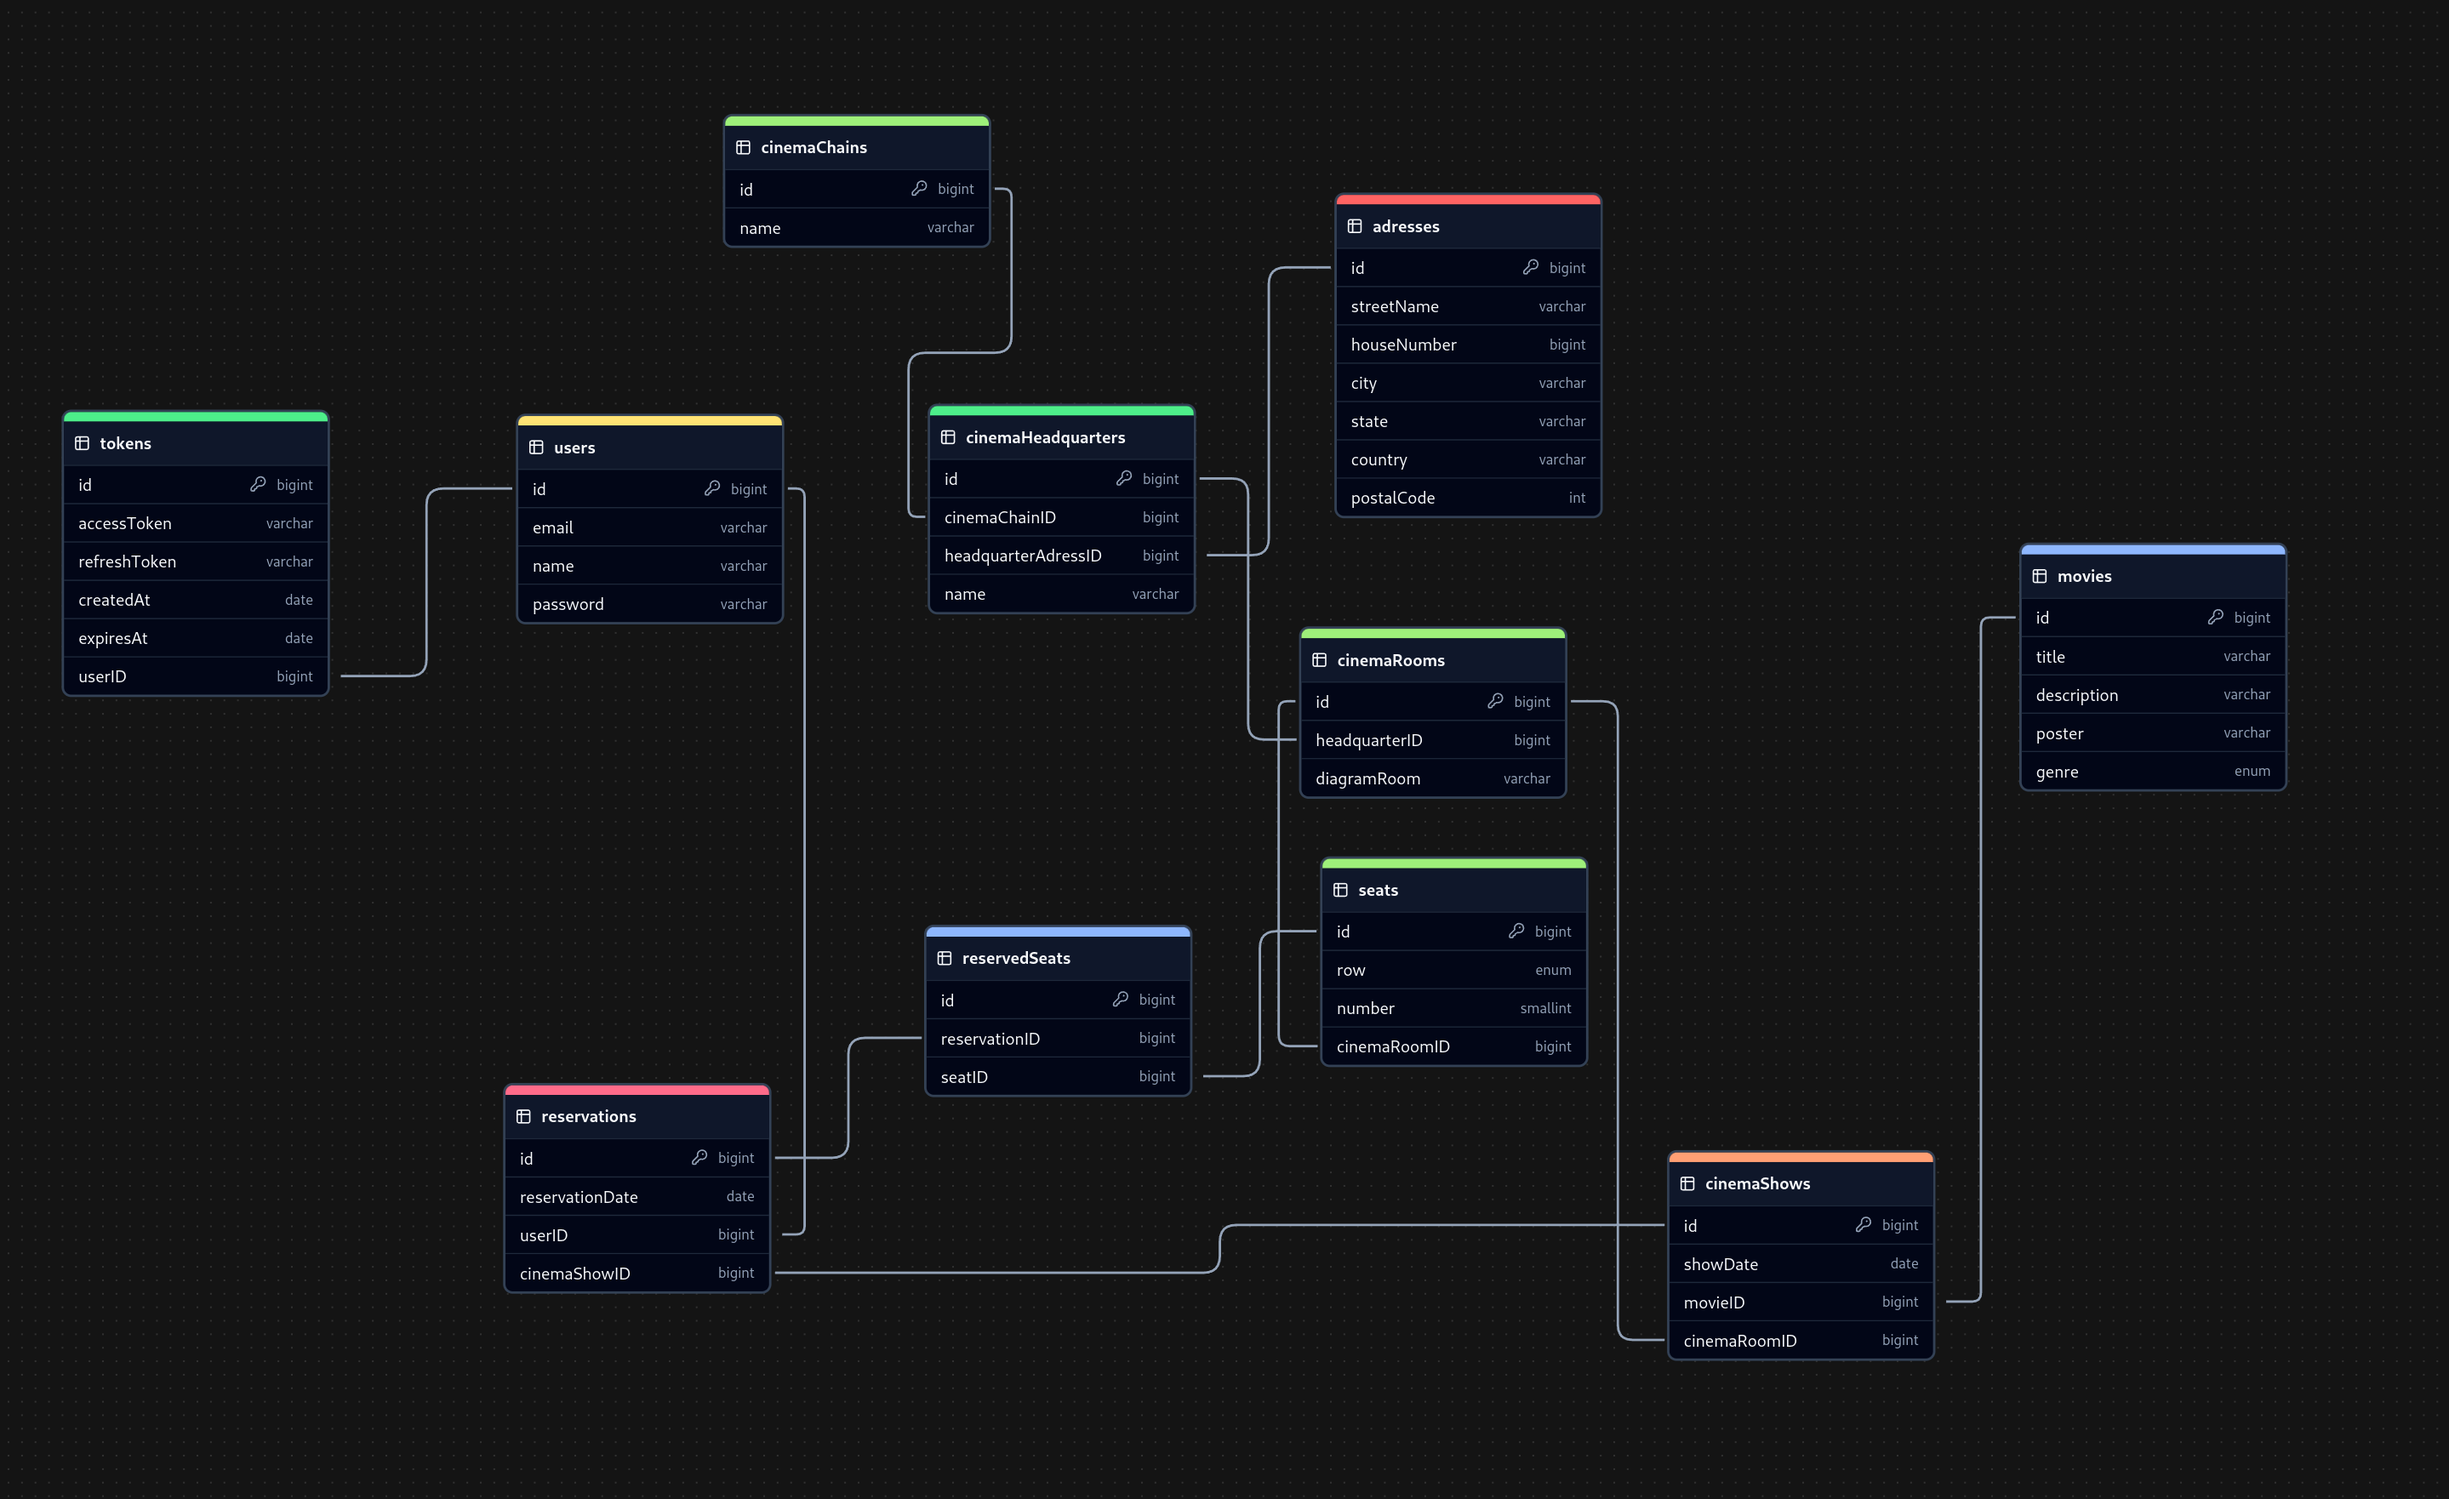
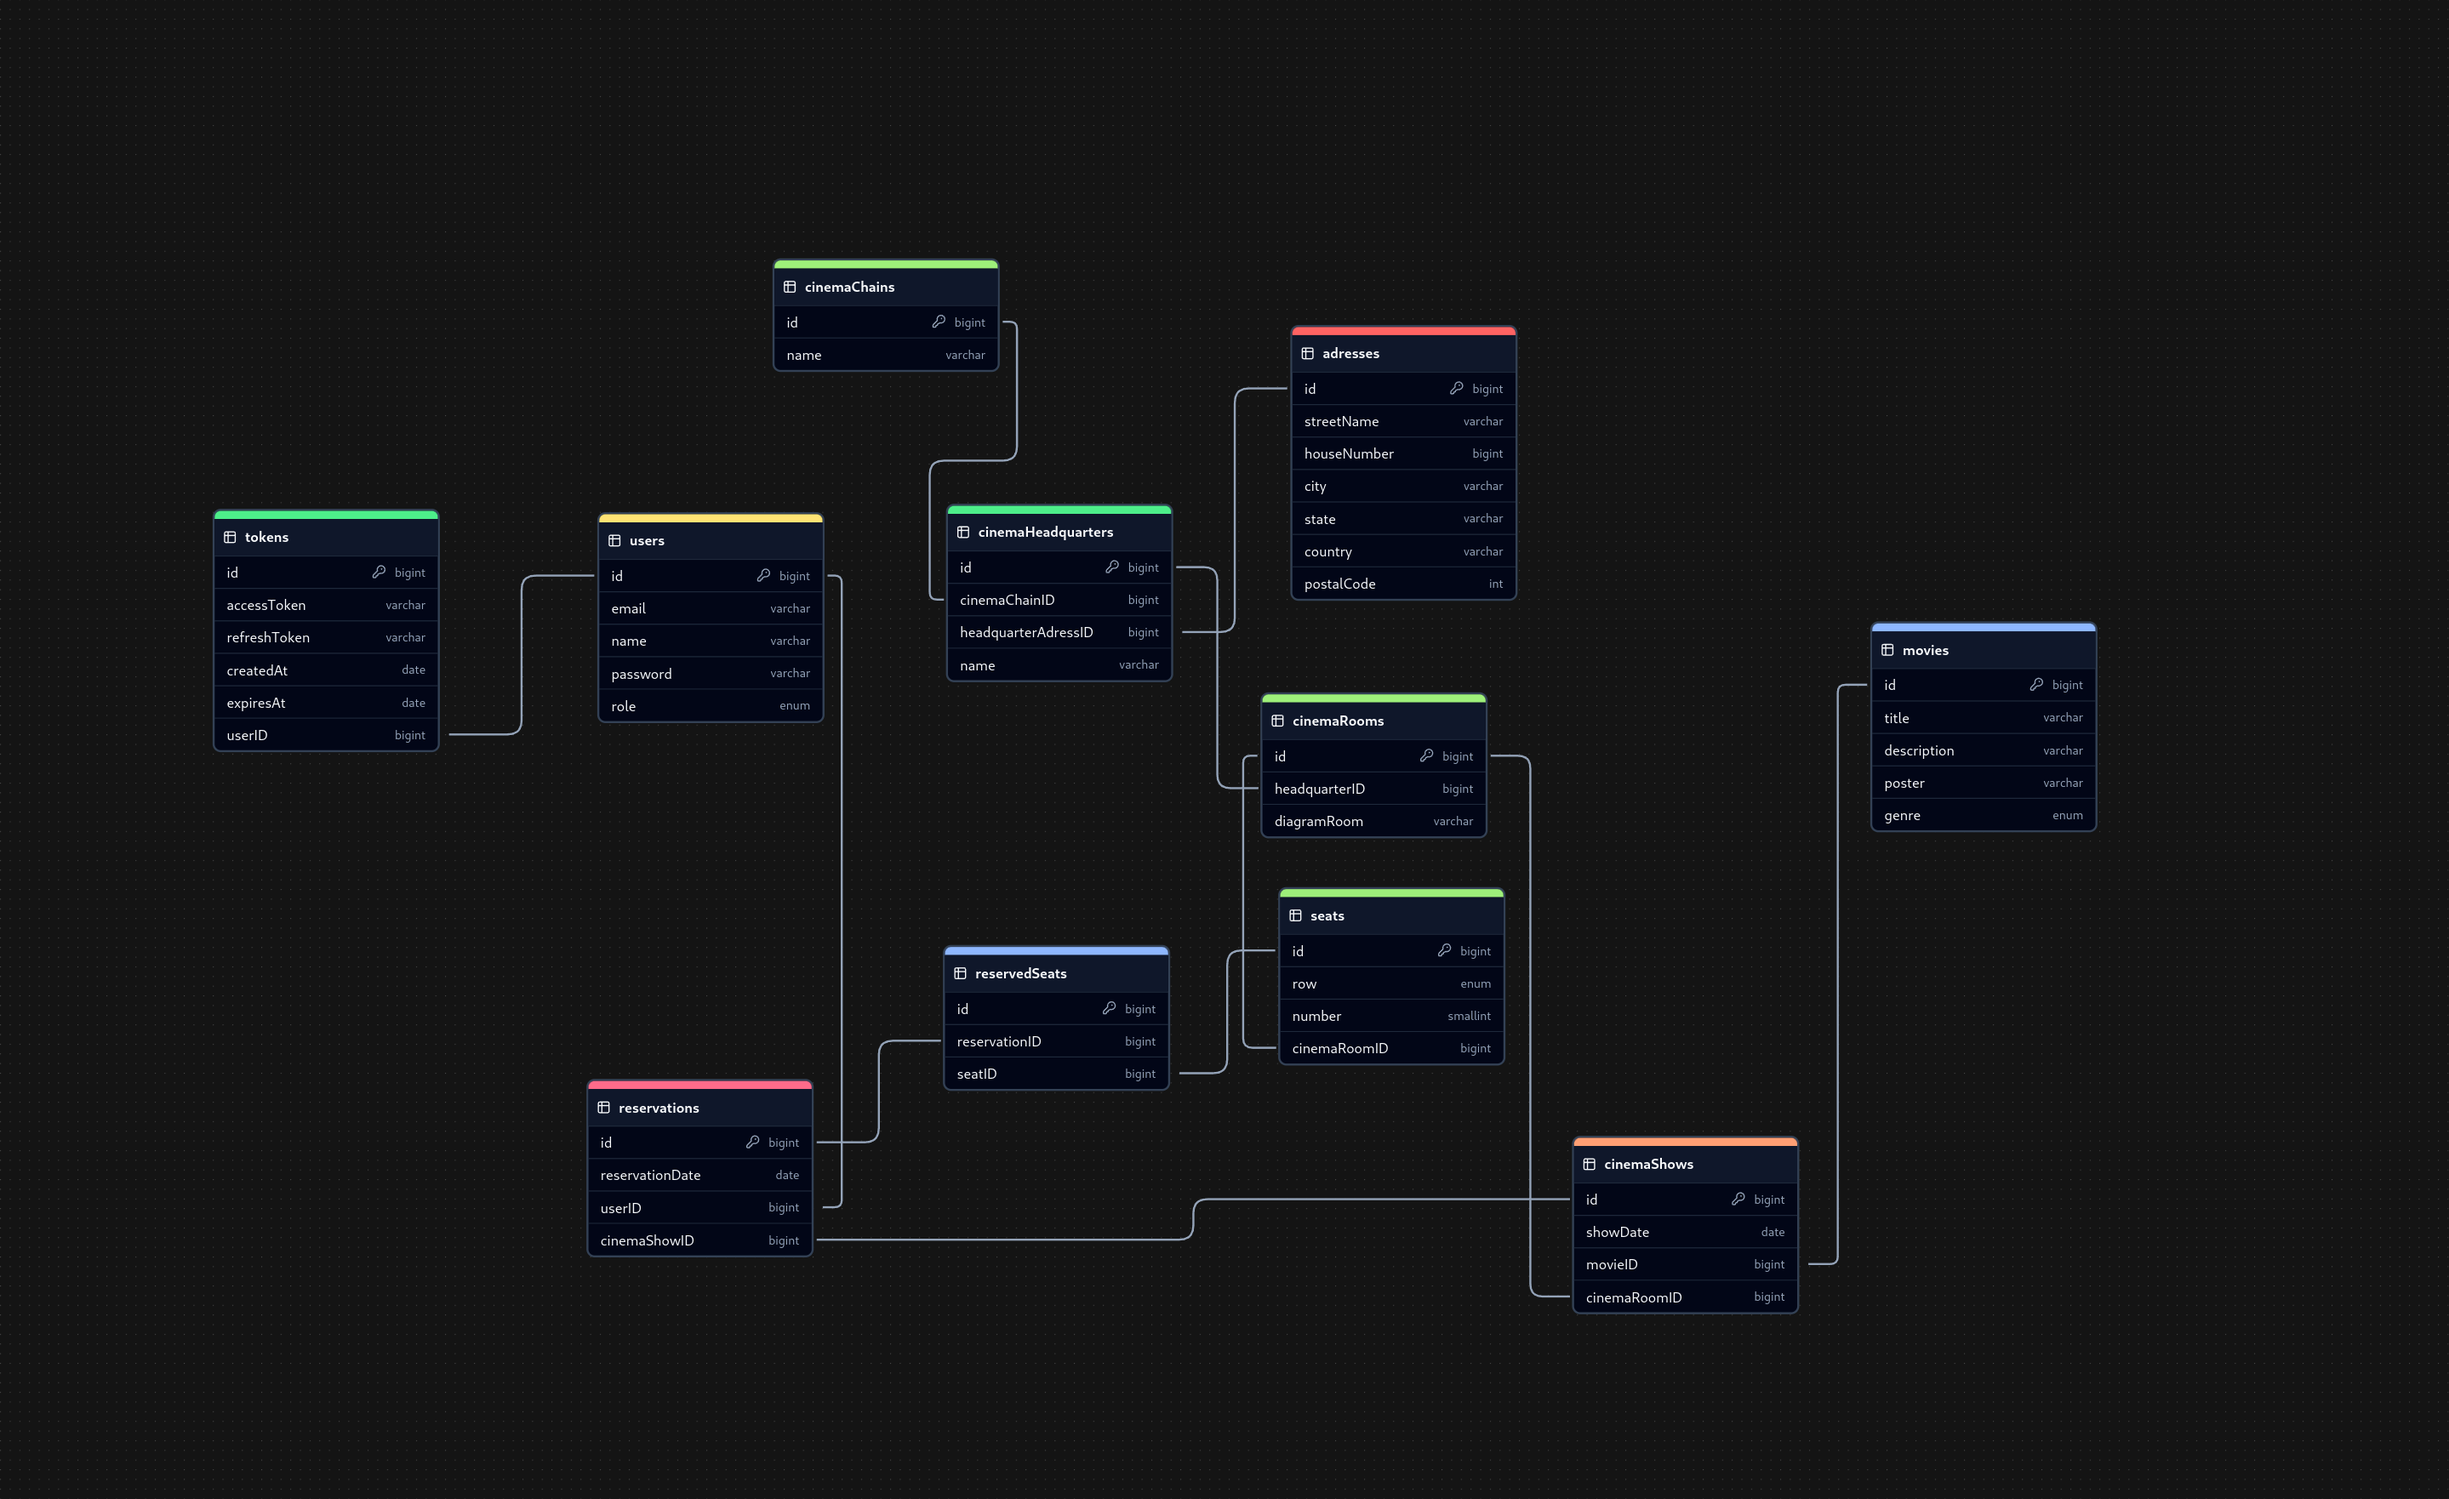
adding service functions

diff --git a/backend/service/user/user.go b/backend/service/user/user.go
@@ -1,0 +1,97 @@
+package service
+
+import (
+	"movie-reservation-system/repository"
+	"movie-reservation-system/models"
+	"strings"
+	"errors"
+)
+
+
+
+type UserServiceImpl struct {
+	userRepository repository.User
+}
+
+func NewUserServiceImpl(userRepository repository.User) UserService {
+	return &UserServiceImpl{userRepository: userRepository}
+}
+
+func (us *UserServiceImpl) CreateUser(req *models.UserRequest) (*models.UserDB, error) {
+	// Validate fields of request
+	TrimStructFields(req)
+	if req.Email == ''{
+		return nil, errors.ErrorUserMustHaveEmail{}.Error()
+	} else if req.Name == '' {
+		return nil, errors.ErrorUserMustHaveName{}.Error()
+	} else if len(req.Password) < 8 {
+		return nil, errors.ErrorPasswordMustHaveLenght8{}.Error()
+	} else if !Contains(models.GetRoles(), req.Role) {
+		return nil, errors.ErrorUserRoleInvalid{req.Role}.Error() 
+	}
+
+	// Call to the db to validate that the user doesnt already exist
+
+	// Save user in the db
+}
+
+func (us *UserServiceImpl) GetUser(email string) (*models.UserDB, error) {
+	// Get user from the db
+}
+
+func (us *UserServiceImpl) UpdateUser(req *models.UserUpdateRequest) (*models.UserDB, error) {
+	// Get user from the db
+	user, err := us.GetUser(email) // Should read the email from the endpoint path
+
+	if err != nil {
+		return nil, errors.ErrorUserNotExist{email}.Error()
+	}
+
+	// Updating fields
+	if req.Email != nil {
+		user.Email = req.Email
+	} else if req.Name != nil {
+		user.Name = req.Name
+	} else if req.Role != nil {
+		user.Role = req.Role
+	}
+
+	// Save updated user in the db
+}	
+
+func (us *UserServiceImpl) UpdatePassword(req *models.UserUpdatePasswordRequest) (*models.UserDB, error) {
+	// Get user from the db
+	user, err := us.GetUser(email) // Should read the email from the endpoint path
+
+	if err != nil {
+		return nil, errors.ErrorUserNotExist{email}.Error()
+	}
+
+	// Validate password fields
+	if !ValidatePassword(user.Password, req.OldPassword) {
+		return nil, errors.ErrorWrongOldPassword{}.Error()
+	}
+
+	if len(req.NewPassword) < 8 {
+		return nil, errors.ErrorPasswordMustHaveLenght8{}.Error()
+	}
+
+	// Update password
+	user.Password = req.NewPassword
+
+	// Save updated user in the db
+}
+
+func (us *UserServiceImpl) DeleteUser(email string) (*models.UserDB, error) {
+	// Get user from the db
+	user, err := us.GetUser(email) // Should read the email from the endpoint path
+
+	if err != nil {
+		return nil, errors.ErrorUserNotExist{email}.Error()
+	}
+
+	// Delete user from the db
+}
+	
+
+

diff --git a/backend/models/user.go b/backend/models/user.go
@@ -5,14 +5,40 @@ import (
 	"gorm.io/gorm"
 )
 
-type User struct {
-	Email    string `gorm:"type:varchar(100);not null"`
-	Name     string `gorm:"type:varchar(100);not null"`
-	Password string `gorm:"type:varchar(100);not null"`
+type Role string
+
+const (
+	User Role = "user"
+	Admin Role = "admin"
+)
+
+func GetRoles() ([]string) {
+	return []string{"user", "admin"}
+}
+
+type UserRequest struct {
+	Email    string `json:"email" binding:"required,email"`
+	Name     string `json:"name" binding:"required""`
+	Password string `json:"password" binding:"required,min=8"`
+	Role     Role   `json:"role" binding:"omitempty,oneof=user admin"`
+}
+
+type UserUpdateRequest struct {
+	Email	*string	`json:"email" binding:"omitempty,email"`
+	Name	*string	`json:"name" binding:"omitempty"`
+	Password	*string	`json:"password" binding:"omitempty,min=8"`
+	Role     *Role   `json:"role" binding:"omitempty,oneof=user admin"`
+}
+
+type UserUpdatePasswordRequest struct {
+	OldPassword string `json:"oldpassword" binding:"required,min=8"`
+	NewPassword string `json:"newpassword" binding:"required,min=8"`
 }
 
 type UserDB struct {
-	ID   uuid.UUID `gorm:"type:uuid;primaryKey"`
-	User User      `gorm:"embedded"`
+	Email    string `gorm:"type:varchar(100);primaryKey"`
+	Name     string `gorm:"type:varchar(100);not null"`
+	Password string `gorm:"type:varchar(100);not null" validate:"required,min=8"`
+	Role	Role	`gorm:"type:varchar(30);default:user`
 	gorm.Model
 }

diff --git a/backend/service/errors/user.go b/backend/service/errors/user.go
@@ -1,0 +1,45 @@
+package errors
+
+import (
+	"fmt"
+)
+
+type ErrorUserNotExist struct {
+	Email string
+}
+
+func (e ErrorUserNotExist) Error() string {
+	return fmt.Sprintf("User with email %s is not registered", e.Email)
+}
+
+type ErrorUserMustHaveEmail struct {}
+
+func (e ErrorUserMustHaveEmail) Error() string {
+	return "User must have an email"
+}
+
+type ErrorUserMustHaveName struct {}
+
+func (e ErrorUserMustHaveName) Error() string {
+	return "User must have a name"
+}
+
+type ErrorPasswordMustHaveLenght8 struct {}
+
+func (e ErrorUserNotExist) Error() string {
+	return "Password must have at least eight characters"
+}
+
+type ErrorUserRoleInvalid struct {
+	Role string
+}
+
+func (e ErrorUserRoleInvalid) Error() string {
+	return fmt.Sprintf("User role %s is not in the possible roles. \nPossible roles: 'user' and 'admin'", e.Role)
+}
+
+type ErrorWrongOldPassword struct {}
+
+func (e ErrorWrongOldPassword) Error() string {
+	return "The entered password is not the user's password"
+}

diff --git a/backend/service/utils.go b/backend/service/utils.go
@@ -1,0 +1,29 @@
+package service
+
+func TrimStructFields(s interface{}) {
+	val := reflect.ValueOf(s)
+
+	if val.Kind() == reflect.Ptr {
+		val = val.Elem()
+	}
+
+	if val.Kind() == reflect.Struct {
+		for i := 0; i < val.NumField(); i++ {
+			field := val.Field(i)
+			fieldName := val.Type().Field(i).Name
+
+			if field.Kind() == reflect.String && fieldName != "Password" {
+				field.SetString(strings.TrimSpace(field.String()))
+			}
+		}
+	}
+}
+
+func Contains(slice []string, value string) bool {
+    for _, v := range slice {
+        if v == value {
+            return true
+        }
+    }
+    return false
+}

diff --git a/backend/service/user/userInterface.go b/backend/service/user/userInterface.go
@@ -1,0 +1,17 @@
+package service
+
+import (
+	"movie-reservation-system/models"
+	"github.com/google/uuid"
+)
+
+type UserService interface {
+
+	CreateUser(*models.UserRequest) (*models.UserDB)
+	
+	GetUser(email string) (*models.UserDB)
+	
+	UpdateUser(*models.UserUpdateRequest) (*models.UserDB)
+	
+	DeleteUser(email string) (*models.UserDB)
+}

diff --git a/backend/controller/user.go b/backend/controller/user.go
@@ -1,1 +1,9 @@
 package controller
+
+import (
+	"movie-reservation-system/service"
+)
+
+type UserController struct {
+	userService service.user.UserService
+}
